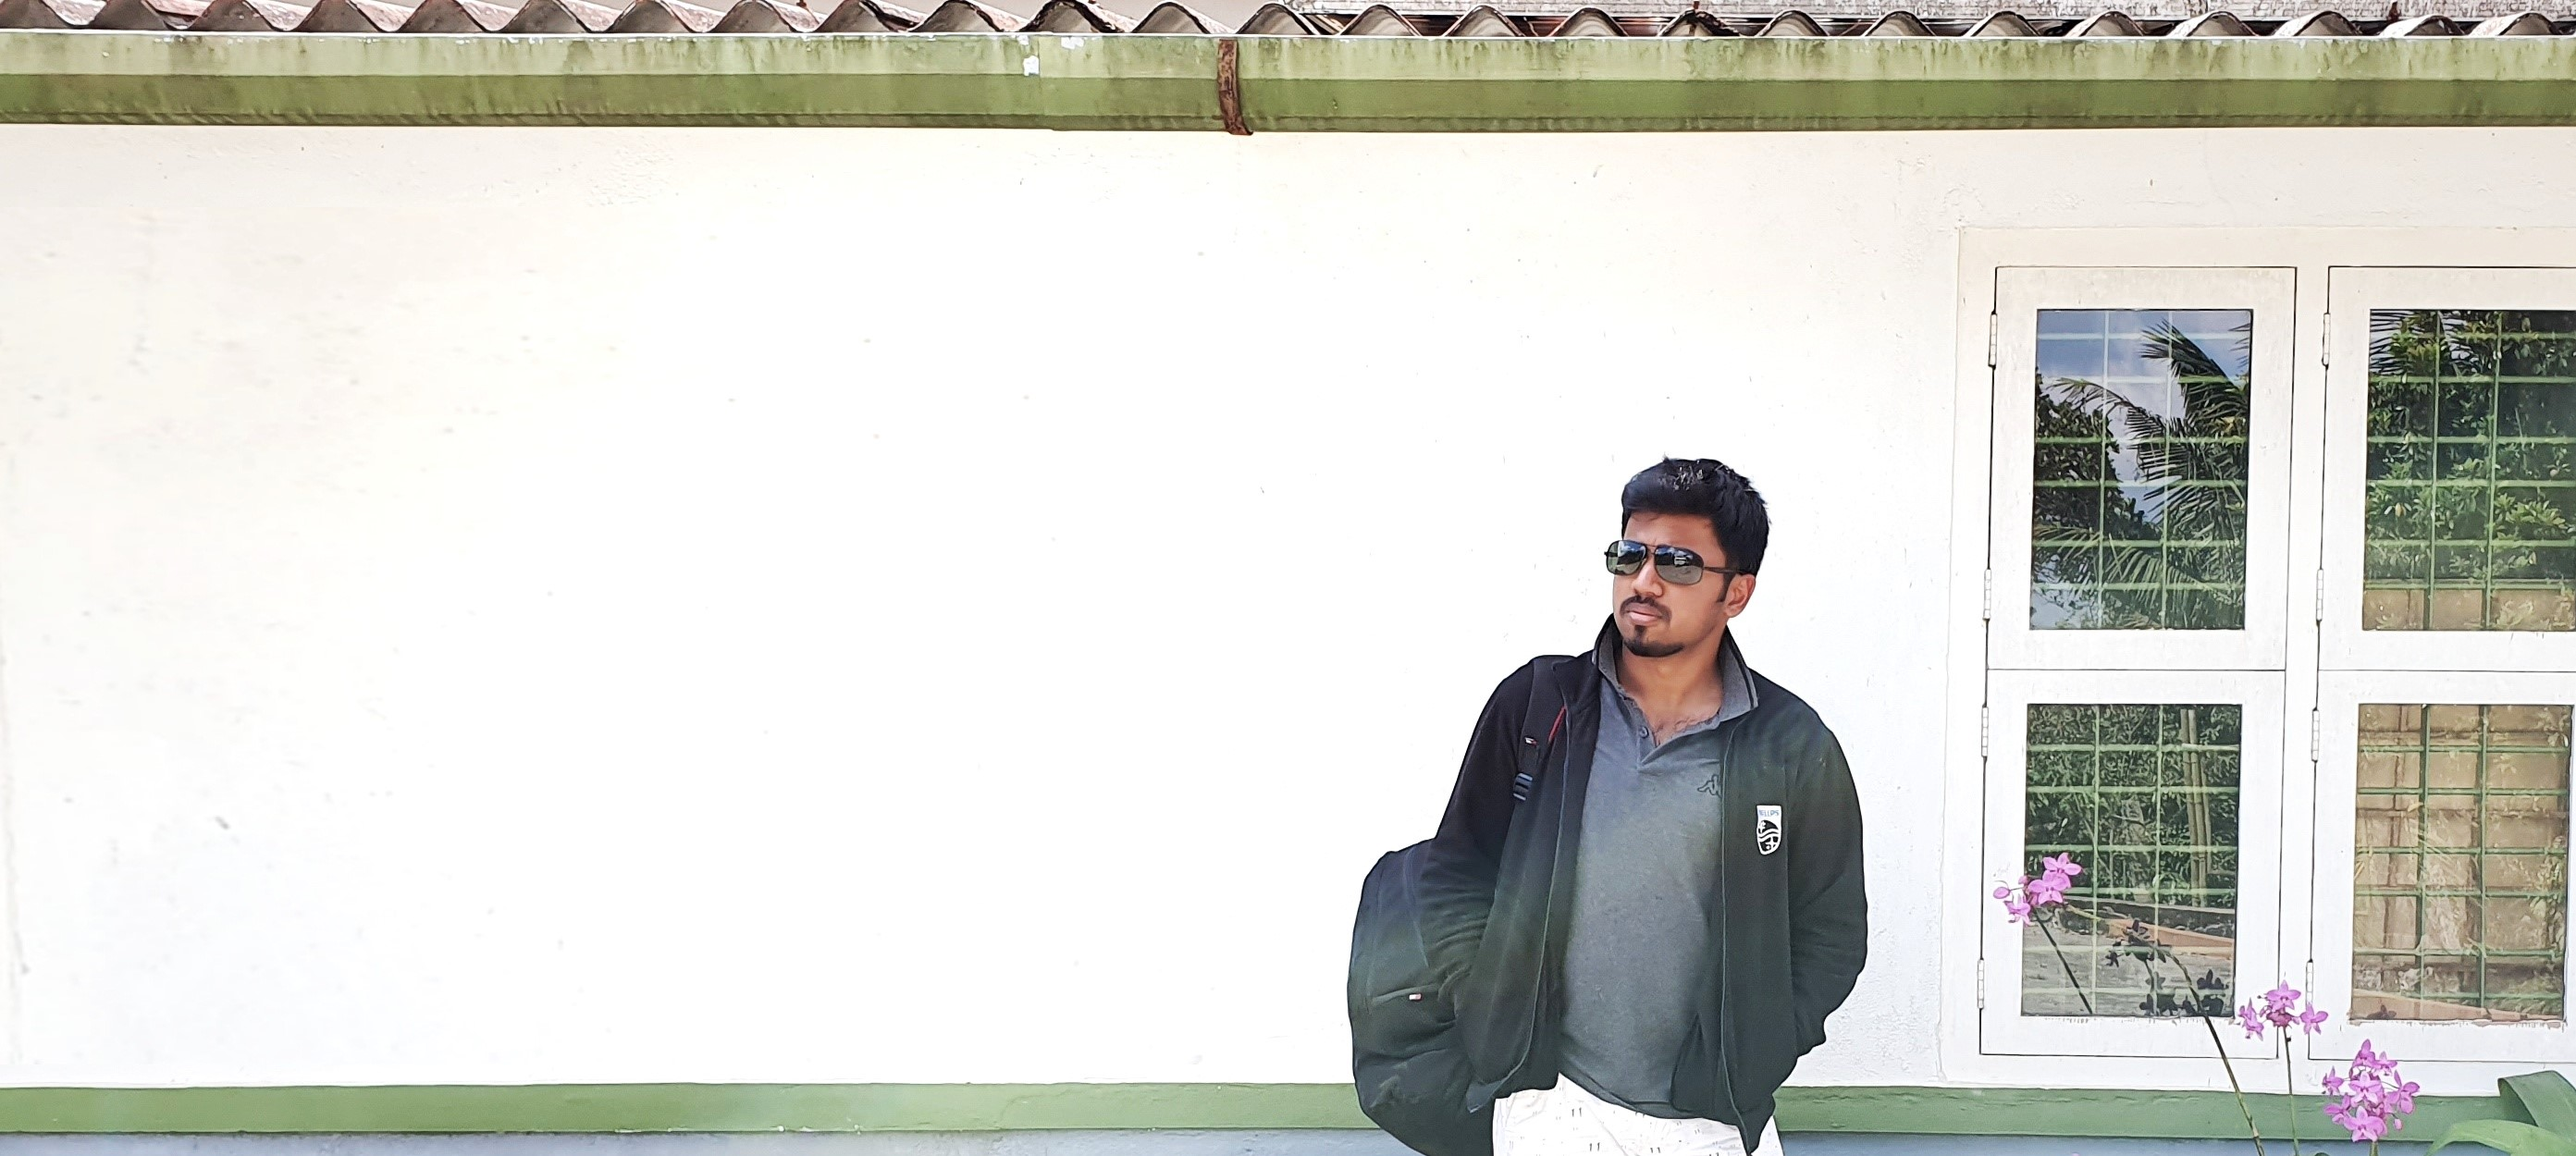
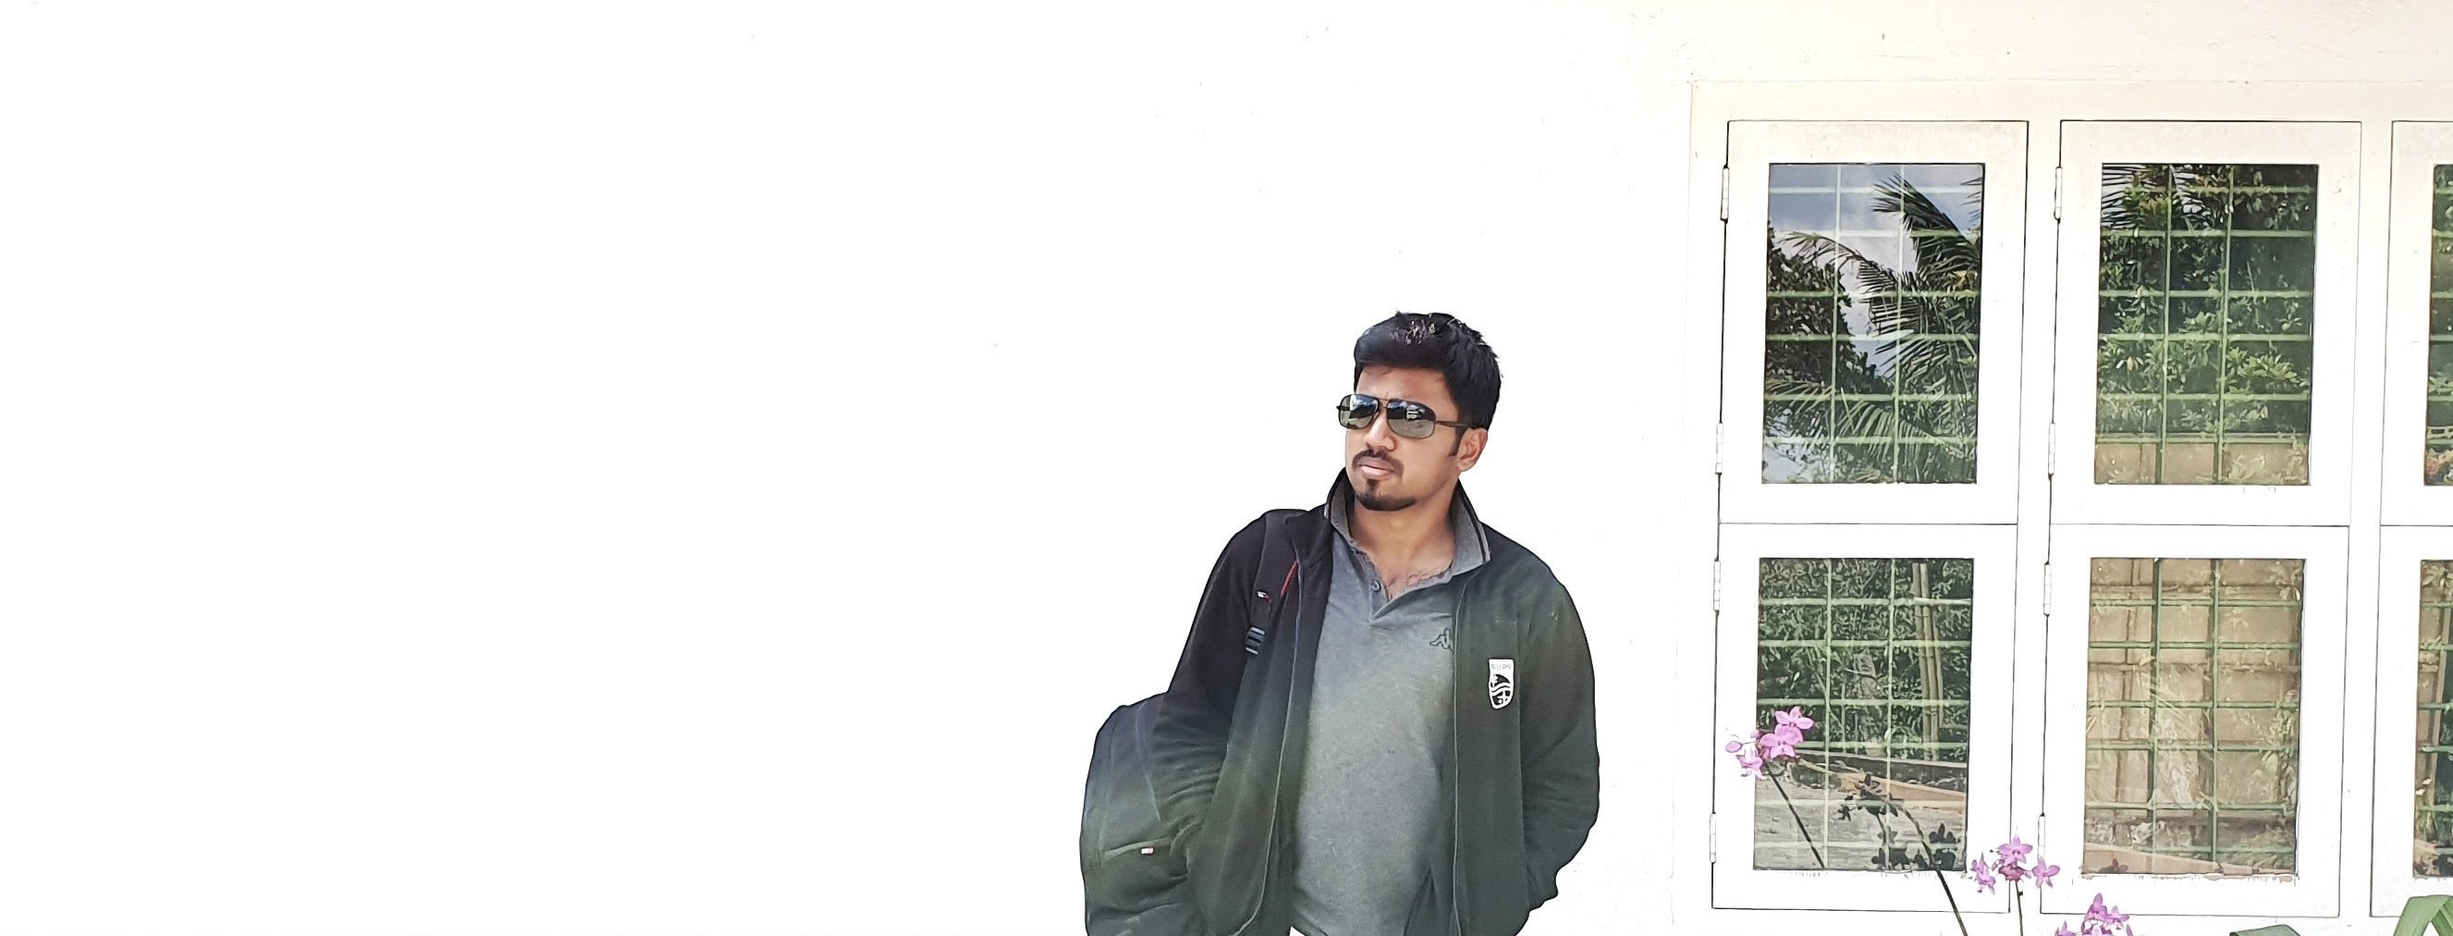
Corrected details

diff --git a/portfolio-details.html b/portfolio-details.html
@@ -5,13 +5,13 @@
   <meta charset="utf-8">
   <meta content="width=device-width, initial-scale=1.0" name="viewport">
 
-  <title>Portfolio Details - iPortfolio Bootstrap Template</title>
+  <title>Gautam's Portfolio - Project Details</title>
   <meta content="" name="description">
   <meta content="" name="keywords">
 
   <!-- Favicons -->
-  <link href="assets/img/favicon.png" rel="icon">
-  <link href="assets/img/apple-touch-icon.png" rel="apple-touch-icon">
+  <link href="assets/img/icon.png" rel="icon">
+  <link href="assets/img/icon.png" rel="apple-touch-icon">
 
   <!-- Google Fonts -->
   <link href="https://fonts.googleapis.com/css?family=Open+Sans:300,300i,400,400i,600,600i,700,700i|Raleway:300,300i,400,400i,500,500i,600,600i,700,700i|Poppins:300,300i,400,400i,500,500i,600,600i,700,700i" rel="stylesheet">
@@ -27,12 +27,6 @@
   <!-- Template Main CSS File -->
   <link href="assets/css/style.css" rel="stylesheet">
 
-  <!-- =======================================================
-  * Template Name: iPortfolio - v3.7.0
-  * Template URL: https://bootstrapmade.com/iportfolio-bootstrap-portfolio-websites-template/
-  * Author: BootstrapMade.com
-  * License: https://bootstrapmade.com/license/
-  ======================================================== -->
 </head>
 
 <body>
@@ -45,25 +39,23 @@
     <div class="d-flex flex-column">
 
       <div class="profile">
-        <img src="assets/img/profile-img.jpg" alt="" class="img-fluid rounded-circle">
-        <h1 class="text-light"><a href="index.html">Alex Smith</a></h1>
+        <img src="assets/img/profile_img_small.jpg" alt="" class="img-fluid rounded-circle">
+        <h1 class="text-light"><a href="index.html">Gautam VR</a></h1>
         <div class="social-links mt-3 text-center">
-          <a href="#" class="twitter"><i class="bx bxl-twitter"></i></a>
-          <a href="#" class="facebook"><i class="bx bxl-facebook"></i></a>
-          <a href="#" class="instagram"><i class="bx bxl-instagram"></i></a>
-          <a href="#" class="google-plus"><i class="bx bxl-skype"></i></a>
-          <a href="#" class="linkedin"><i class="bx bxl-linkedin"></i></a>
+          <a href="https://www.instagram.com/gaut5m/" class="instagram"><i class="bx bxl-instagram"></i></a>
+          <a href="https://github.com/gautamvr" class="github"><i class="bx bxl-github"></i></a>
+          <a href="https://www.linkedin.com/in/gautam-vr/" class="linkedin"><i class="bx bxl-linkedin"></i></a>
         </div>
       </div>
 
       <nav id="navbar" class="nav-menu navbar">
         <ul>
-          <li><a href="#hero" class="nav-link scrollto active"><i class="bx bx-home"></i> <span>Home</span></a></li>
-          <li><a href="#about" class="nav-link scrollto"><i class="bx bx-user"></i> <span>About</span></a></li>
-          <li><a href="#resume" class="nav-link scrollto"><i class="bx bx-file-blank"></i> <span>Resume</span></a></li>
-          <li><a href="#portfolio" class="nav-link scrollto"><i class="bx bx-book-content"></i> <span>Portfolio</span></a></li>
-          <li><a href="#services" class="nav-link scrollto"><i class="bx bx-server"></i> <span>Services</span></a></li>
-          <li><a href="#contact" class="nav-link scrollto"><i class="bx bx-envelope"></i> <span>Contact</span></a></li>
+          <li><a href="index.html#hero"  class="nav-link scrollto"><i class="bx bx-home"></i> <span>Home</span></a></li>
+          <li><a href="index.html#about" class="nav-link scrollto"><i class="bx bx-user"></i> <span>About</span></a></li>
+          <li><a href="index.html#resume" class="nav-link scrollto"><i class="bx bx-file-blank"></i> <span>Resume</span></a></li>
+          <li><a href="index.html#portfolio" class="nav-link scrollto"><i class="bx bx-book-content"></i> <span>Portfolio</span></a></li>
+          <li><a href="index.html#services" class="nav-link scrollto"><i class="bx bx-server"></i> <span>Services</span></a></li>
+          <li><a href="index.html#contact" class="nav-link scrollto"><i class="bx bx-envelope"></i> <span>Contact</span></a></li>
         </ul>
       </nav><!-- .nav-menu -->
     </div>
@@ -138,21 +130,7 @@
 
   </main><!-- End #main -->
 
-  <!-- ======= Footer ======= -->
-  <footer id="footer">
-    <div class="container">
-      <div class="copyright">
-        &copy; Copyright <strong><span>iPortfolio</span></strong>
-      </div>
-      <div class="credits">
-        <!-- All the links in the footer should remain intact. -->
-        <!-- You can delete the links only if you purchased the pro version. -->
-        <!-- Licensing information: https://bootstrapmade.com/license/ -->
-        <!-- Purchase the pro version with working PHP/AJAX contact form: https://bootstrapmade.com/iportfolio-bootstrap-portfolio-websites-template/ -->
-        Designed by <a href="https://bootstrapmade.com/">BootstrapMade</a>
-      </div>
-    </div>
-  </footer><!-- End  Footer -->
+  
 
   <a href="#" class="back-to-top d-flex align-items-center justify-content-center"><i class="bi bi-arrow-up-short"></i></a>
 

diff --git a/inner-page.html b/inner-page.html
@@ -10,8 +10,8 @@
   <meta content="" name="keywords">
 
   <!-- Favicons -->
-  <link href="assets/img/favicon.png" rel="icon">
-  <link href="assets/img/apple-touch-icon.png" rel="apple-touch-icon">
+  <link href="assets/img/icon.png" rel="icon">
+  <link href="assets/img/icon.png" rel="apple-touch-icon">
 
   <!-- Google Fonts -->
   <link href="https://fonts.googleapis.com/css?family=Open+Sans:300,300i,400,400i,600,600i,700,700i|Raleway:300,300i,400,400i,500,500i,600,600i,700,700i|Poppins:300,300i,400,400i,500,500i,600,600i,700,700i" rel="stylesheet">
@@ -38,14 +38,12 @@
     <div class="d-flex flex-column">
 
       <div class="profile">
-        <img src="assets/img/profile-img.jpg" alt="" class="img-fluid rounded-circle">
-        <h1 class="text-light"><a href="index.html">Alex Smith</a></h1>
+        <img src="assets/img/profile_img_small.jpg" alt="" class="img-fluid rounded-circle">
+        <h1 class="text-light"><a href="index.html">Gautam VR</a></h1>
         <div class="social-links mt-3 text-center">
-          <a href="#" class="twitter"><i class="bx bxl-twitter"></i></a>
-          <a href="#" class="facebook"><i class="bx bxl-facebook"></i></a>
-          <a href="#" class="instagram"><i class="bx bxl-instagram"></i></a>
-          <a href="#" class="google-plus"><i class="bx bxl-skype"></i></a>
-          <a href="#" class="linkedin"><i class="bx bxl-linkedin"></i></a>
+          <a href="https://www.instagram.com/gaut5m/" class="instagram"><i class="bx bxl-instagram"></i></a>
+          <a href="https://github.com/gautamvr" class="github"><i class="bx bxl-github"></i></a>
+          <a href="https://www.linkedin.com/in/gautam-vr/" class="linkedin"><i class="bx bxl-linkedin"></i></a>
         </div>
       </div>
 
@@ -89,21 +87,6 @@
 
   </main><!-- End #main -->
 
-  <!-- ======= Footer ======= -->
-  <footer id="footer">
-    <div class="container">
-      <div class="copyright">
-        &copy; Copyright <strong><span>iPortfolio</span></strong>
-      </div>
-      <div class="credits">
-        <!-- All the links in the footer should remain intact. -->
-        <!-- You can delete the links only if you purchased the pro version. -->
-        <!-- Licensing information: https://bootstrapmade.com/license/ -->
-        <!-- Purchase the pro version with working PHP/AJAX contact form: https://bootstrapmade.com/iportfolio-bootstrap-portfolio-websites-template/ -->
-        Designed by <a href="https://bootstrapmade.com/">BootstrapMade</a>
-      </div>
-    </div>
-  </footer><!-- End  Footer -->
 
   <a href="#" class="back-to-top d-flex align-items-center justify-content-center"><i class="bi bi-arrow-up-short"></i></a>
 

diff --git a/index.html b/index.html
@@ -65,8 +65,8 @@
   <section id="hero" class="d-flex flex-column justify-content-center align-items-center">
     <div class="hero-container" data-aos="fade-in">
       <h1 >Hi! </h1>
-       <h1>I'm Gautam VR</h1>
-      <p>I'm <span class="typed" data-typed-items="a Software Developer,a Cloud Practitioner,an AI Enthusiast"></span></p>
+       <h1>I'm Gautam</h1>
+      <p><span class="typed" data-typed-items="A Software Developer,A Cloud Practitioner,An AI Enthusiast"></span></p>
     </div>
   </section><!-- End Hero -->
 
@@ -93,7 +93,7 @@
             <div class="row">
               <div class="col-lg-6">
                 <ul>
-                  <li><i class="bi bi-chevron-right"></i> <strong>Birthday:</strong> <span>1 May 1995</span></li>
+                  <li><i class="bi bi-chevron-right"></i> <strong>Birthday:</strong> <span>23 May 1997</span></li>
                   <li><i class="bi bi-chevron-right"></i> <strong>Website:</strong> <span>www.gautamvr.github.io</span></li>
                   <li><i class="bi bi-chevron-right"></i> <strong>City:</strong> <span>Bangalore, India</span></li>
                 </ul>
@@ -101,7 +101,7 @@
               <div class="col-lg-6">
                 <ul>
                   <li><i class="bi bi-chevron-right"></i> <strong>Age:</strong> <span>24</span></li>
-                  <li><i class="bi bi-chevron-right"></i> <strong>PhEmailone:</strong> <span>gautamvr55@gmail.com</span></li>
+                  <li><i class="bi bi-chevron-right"></i> <strong>Email:</strong> <span>gautamvr55@gmail.com</span></li>
                 </ul>
               </div>
             </div>

diff --git a/assets/css/style.css b/assets/css/style.css
@@ -198,7 +198,7 @@ h1, h2, h3, h4, h5, h6 {
 #hero {
   width: 100%;
   height: 100vh;
-  background: url("../img/Gautam_bg.jpeg") top center;
+  background: url("../img/Gautam_bg.jpeg") center center;
   background-size: cover;
 }
 #hero:before {
@@ -212,7 +212,9 @@ h1, h2, h3, h4, h5, h6 {
   z-index: 1;
 }
 #hero .hero-container {
-  position: relative;
+  position: absolute;
+  top: 12%;
+  left: 20%;
   z-index: 2;
   min-width: 300px;
 }
